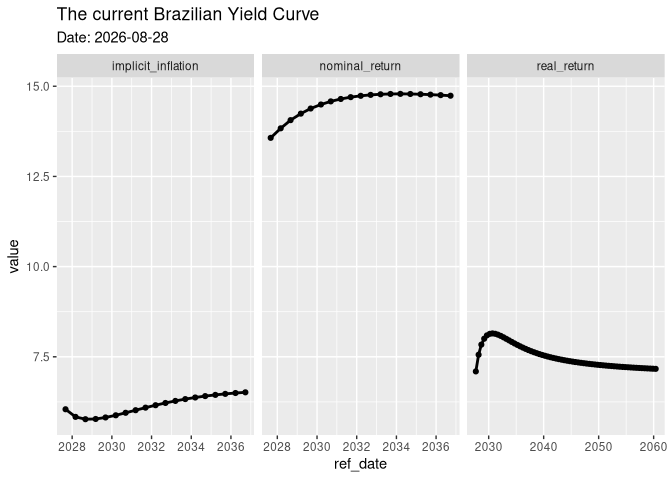
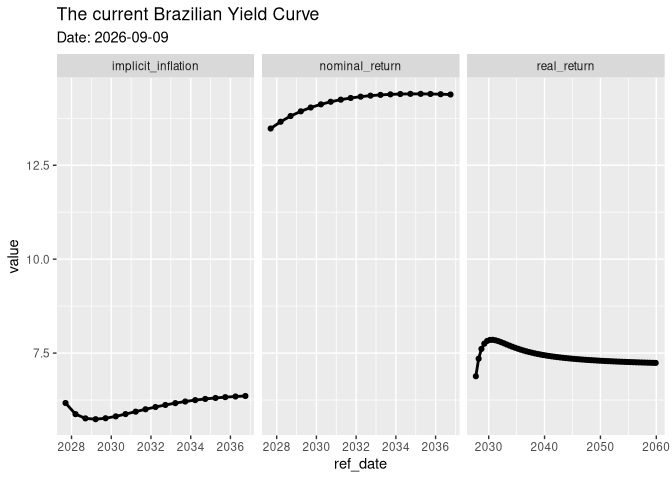
Update td_get_current function and documentation to reflect changes in data retrieval from Tesouro Transparente

diff --git a/README.md b/README.md
@@ -13,14 +13,17 @@ developed.](https://www.repostatus.org/badges/latest/active.svg)](https://www.re
 # Package `GetTDData`
 
 Information regarding prices and yields of bonds issued by the Brazilian
-government can be downloaded manually as excel files from the [Tesouro
-Direto website](https://www.tesourodireto.com.br/). However, it is
-painful to aggregate all of this data into something useful as the
-several files don’t have an uniform format.
+government can be downloaded from the official open data portal at
+[Tesouro
+Transparente](https://www.tesourotransparente.gov.br/ckan/dataset/taxas-dos-titulos-ofertados-pelo-tesouro-direto/).
+However, aggregating all of this historical data into a structured
+format can be challenging.
 
-Package `GetTDData` makes the process of importing data from Tesouro
-direto much easier. All that you need in order to download the data is
-the name of the assets (LFT, LTN, NTN-C, NTN-B, NTN-B Principal, NTN-F).
+Package `GetTDData` makes importing data from Tesouro Direto simple and
+fast. All you need to download bond data is the asset identifier (LFT,
+LTN, NTN-C, NTN-B, NTN-B Principal, NTN-F, NTN-B1, Educa+, RendA+).
+Function `td_get2()` downloads directly from the official Tesouro
+Transparente CKAN open data repository.
 
 ## Installation
 
@@ -35,11 +38,10 @@ the name of the assets (LFT, LTN, NTN-C, NTN-B, NTN-B Principal, NTN-F).
 Suppose you need financial data (prices and yields) for a bond of type
 LTN with a maturity (end of contract) at 2023-01-01. This bullet bond is
 the most basic debt contract the Brazilian government issues. It does
-not pay any value (coupon) during its lifetime and will pay 1000 R\$ at
-maturity.
+not pay any coupon during its lifetime and pays R\$ 1,000 at maturity.
 
-In order to get the data, all you need to do is to run the following
-code in R:
+In order to get the data, all you need to do is run the following code
+in R using `td_get2()`:
 
 ``` r
 library(GetTDData)
@@ -48,18 +50,14 @@ assets <- 'LTN'   # Identifier of assets
 first_year <- 2020
 last_year <- 2022
 
-df_td <- td_get(assets,
-                first_year,
-                last_year)
+df_td <- td_get2(assets,
+                 first_year,
+                 last_year)
 #> 
-#> ── Downloading TD files
-#> ℹ Downloading 3 files in parallel...
-#> ✔ All downloads completed successfully.
+#> ── Downloading TD data from Tesouro Transparente CKAN
 #> 
-#> ── Checking files
-#> ✔ Found 3 files
-#> 
-#> ── Reading files
+#> ── Reading TD data
+#> ✔ Retrieved 3644 rows of TD data.
 ```
 
 Let’s plot the prices to check if the code worked:
@@ -106,12 +104,12 @@ the use and definition of a yield curve in
 ``` r
 df_yield <- get_yield_curve()  
 str(df_yield)
-#> tibble [104 × 5] (S3: tbl_df/tbl/data.frame)
-#>  $ n_biz_days  : num [1:104] 252 252 252 378 378 378 504 504 504 630 ...
-#>  $ type        : chr [1:104] "real_return" "nominal_return" "implicit_inflation" "real_return" ...
-#>  $ value       : num [1:104] 7.09 13.57 6.05 7.56 13.83 ...
-#>  $ ref_date    : Date[1:104], format: "2027-09-01" "2027-09-01" ...
-#>  $ current_date: Date[1:104], format: "2026-08-28" "2026-08-28" ...
+#> tibble [103 × 5] (S3: tbl_df/tbl/data.frame)
+#>  $ n_biz_days  : num [1:103] 252 252 252 378 378 378 504 504 504 630 ...
+#>  $ type        : chr [1:103] "real_return" "nominal_return" "implicit_inflation" "real_return" ...
+#>  $ value       : num [1:103] 6.88 13.48 6.17 7.35 13.66 ...
+#>  $ ref_date    : Date[1:103], format: "2027-09-13" "2027-09-13" ...
+#>  $ current_date: Date[1:103], format: "2026-09-09" "2026-09-09" ...
 ```
 
 And we can plot it for the desired result:
